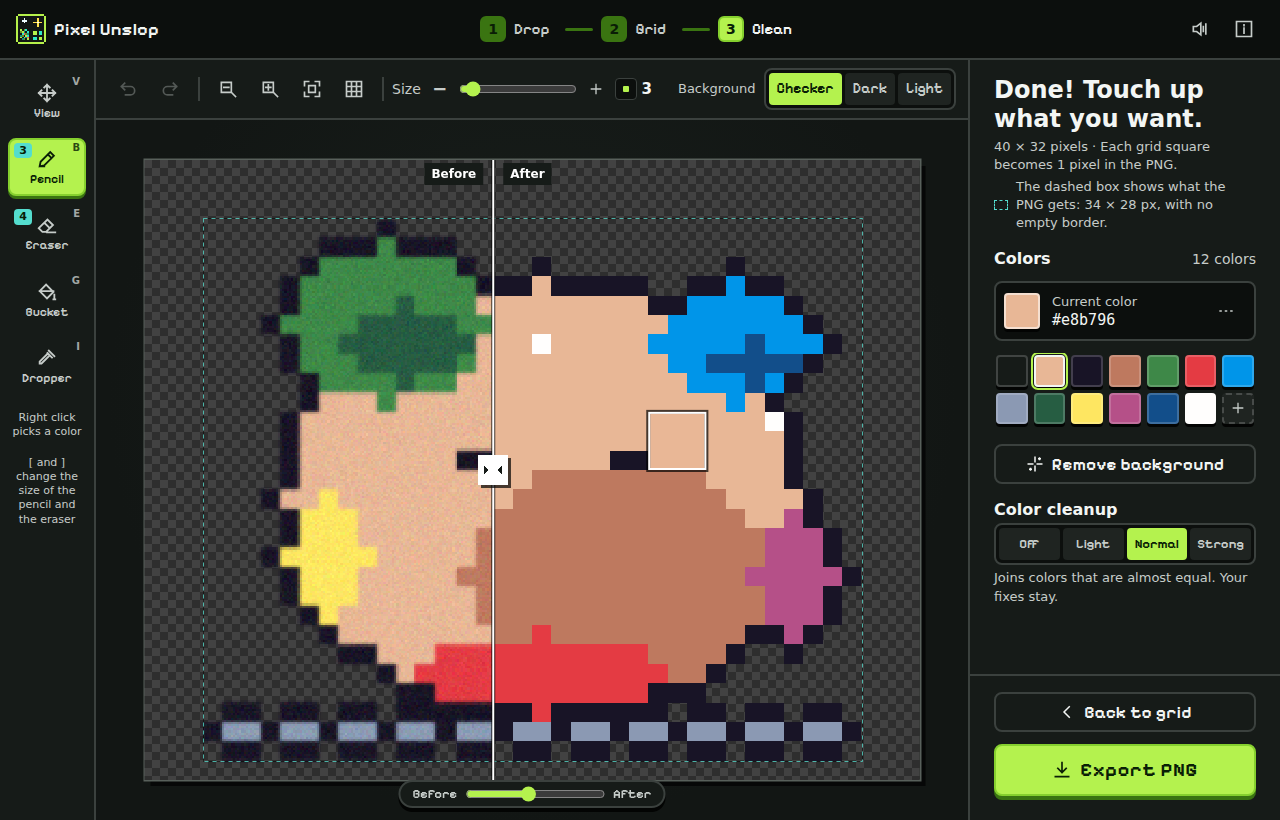
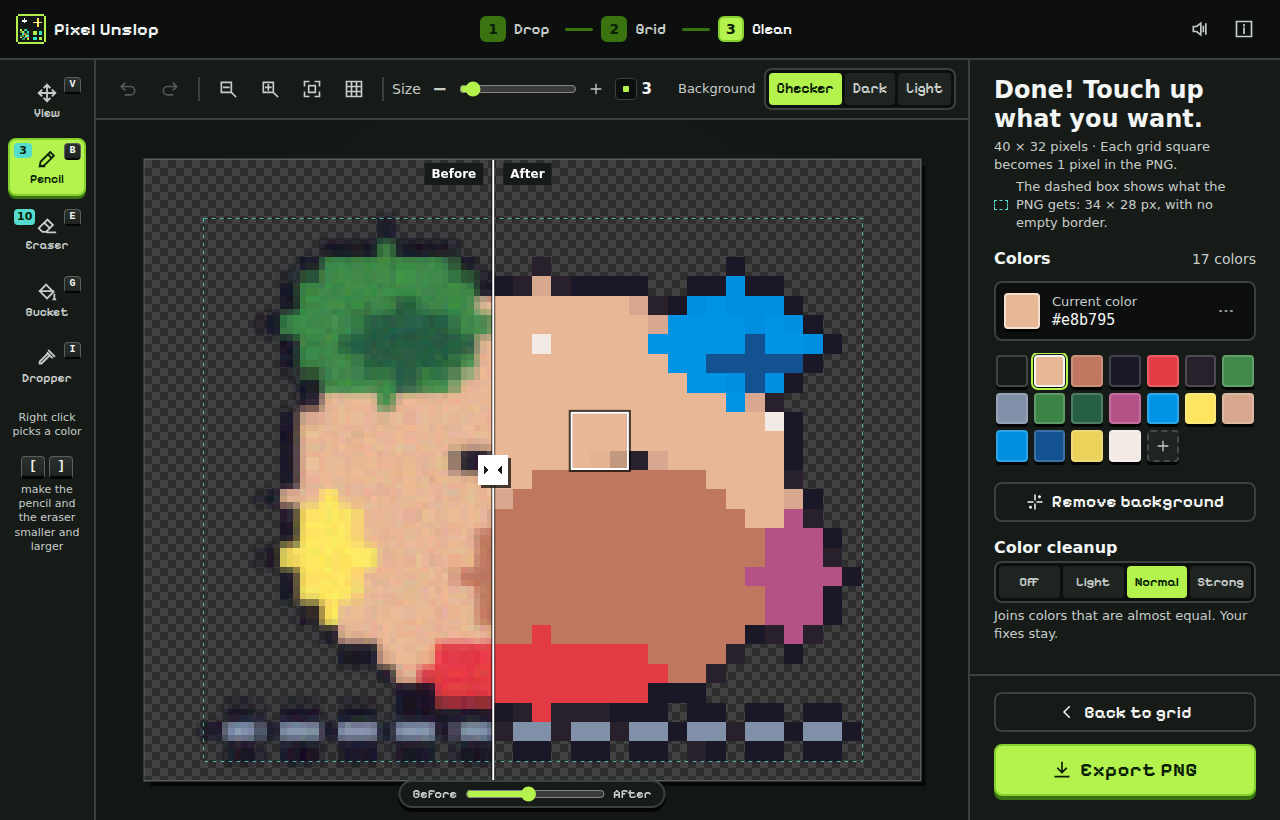
feat: show key hints as keycaps, version 1.2.1
## Description

Show the keys of the visible hints as keycaps, and remove the word between the two bracket keys.

## What

- Add a shared keycap style and the KeyText component. Why: key hints look like real keys in each screen
- Show the bracket keys of the brush size as two keycaps with no word between them. Why: the word "e" looked like the key E of the eraser
- Use keycaps for the tool letters, for Ctrl and for the keys in the line tips. Why: one look for each visible key
- Make the clean screen image of the README again. Why: the image shows the tool rail
- Set the version to 1.2.1. Why: release the change

diff --git a/src/ui/GridScreen.svelte b/src/ui/GridScreen.svelte
@@ -14,6 +14,7 @@
   import { holdRepeat } from './hold-repeat.ts';
   import { revealInPanel } from './reveal.ts';
   import Icon from './Icon.svelte';
+  import KeyText from './KeyText.svelte';
   import ProgressPill from './ProgressPill.svelte';
   import SetGridRail from './SetGridRail.svelte';
   import Stage from './Stage.svelte';
@@ -717,7 +718,7 @@
           <h1 class="grid-title" id="adjust-title">{t('grid.adjustTitle')}</h1>
           <ul class="adjust-tips">
             {#each ADJUST_TIPS as tip (tip.key)}
-              <li class="adjust-tip"><span class="tip-key">{t(tip.key)}</span><span class="tip-text">{t(tip.text)}</span></li>
+              <li class="adjust-tip"><span class="tip-key"><KeyText text={t(tip.key)} /></span> <span class="tip-text"><KeyText text={t(tip.text)} /></span></li>
             {/each}
           </ul>
           <div class="adjust-row">
@@ -858,7 +859,7 @@
               {/if}
             </div>
           </div>
-          <p class="way-move"><span class="tip-key">{t('grid.moveKey')}</span>{t('grid.moveHelp')}</p>
+          <p class="way-move"><span class="tip-key"><KeyText text={t('grid.moveKey')} /></span>{t('grid.moveHelp')}</p>
           <div class="way is-stacked">
             <button type="button" class="btn btn-quiet way-btn" onclick={detect}>
               <Icon name="wand" size={18} />
@@ -1443,19 +1444,10 @@
       line-height: 1.4;
     }
 
-    .adjust-tip .tip-key {
-      margin-right: var(--space-1);
-    }
-
+    /* The action of a tip. Its key names show as keycaps, with the shared look. */
     .tip-key {
-      display: inline-block;
-      padding: 0 var(--space-1);
       color: var(--text);
-      background: var(--surface-3);
-      border: 1px solid var(--line-strong);
-      border-radius: var(--radius-s);
       font-weight: 700;
-      font-size: 0.8125rem;
     }
 
     .tip-text {

diff --git a/src/ui/CleanScreen.svelte b/src/ui/CleanScreen.svelte
@@ -417,14 +417,17 @@
       >
         <Icon name={tool.icon} size={22} />
         <span class="tool-label">{t(tool.label)}</span>
-        <kbd class="tool-key">{tool.key}</kbd>
+        <kbd class="keycap tool-key">{tool.key}</kbd>
         {#if (tool.id === 'pencil' || tool.id === 'eraser') && app.brush[tool.id] > 1}
           <span class="tool-size" title={t('brush.value', { size: app.brush[tool.id] })}>{app.brush[tool.id]}</span>
         {/if}
       </button>
     {/each}
     <p class="rail-hint">{t('clean.rightClickHint')}</p>
-    <p class="rail-hint">{t('brush.railHint')}</p>
+    <p class="rail-hint rail-keys">
+      <span class="keycap-group" role="group" aria-label={t('brush.bracketKeys')}><kbd class="keycap">[</kbd><kbd class="keycap">]</kbd></span>
+      <span>{t('brush.railHint')}</span>
+    </p>
   </nav>
 
   <div class="clean-main">
@@ -615,9 +618,12 @@
     .tool-key {
       position: absolute;
       top: 3px;
-      right: 4px;
-      font: 600 0.625rem/1 var(--font-body);
-      opacity: 0.8;
+      right: 3px;
+      min-width: 1.7em;
+      height: 1.7em;
+      padding: 0 0.25em;
+      border-bottom-width: 2px;
+      font-size: 0.625rem;
     }
 
     /* The brush size of the pencil or the eraser, when it is larger than 1. */
@@ -642,6 +648,17 @@
       font-size: 0.6875rem;
       line-height: 1.3;
       text-align: center;
+    }
+
+    /* The bracket keys on their own line, above what they do. */
+    .rail-keys {
+      display: grid;
+      justify-items: center;
+      gap: var(--space-1);
+
+      & .keycap-group {
+        font-size: 0.875rem;
+      }
     }
 
     .clean-main {

diff --git a/src/app/i18n.ts b/src/app/i18n.ts
@@ -176,7 +176,8 @@ const ptBR = {
   'brush.larger': 'Pincel maior',
   'brush.value': '{size} por {size} pixels',
   'brush.keys': '[ e ] mudam o tamanho',
-  'brush.railHint': '[ e ] mudam o tamanho do lápis e da borracha',
+  'brush.railHint': 'diminuem e aumentam o lápis e a borracha',
+  'brush.bracketKeys': 'colchete esquerdo e colchete direito',
   'clean.undo': 'Desfazer',
   'clean.redo': 'Refazer',
   'clean.backToGrid': 'Voltar à grade',
@@ -566,7 +567,8 @@ const en: Record<TextKey, string> = {
   'brush.larger': 'Larger brush',
   'brush.value': '{size} by {size} pixels',
   'brush.keys': '[ and ] change the size',
-  'brush.railHint': '[ and ] change the size of the pencil and the eraser',
+  'brush.railHint': 'make the pencil and the eraser smaller and larger',
+  'brush.bracketKeys': 'left bracket and right bracket',
   'clean.undo': 'Undo',
   'clean.redo': 'Redo',
   'clean.backToGrid': 'Back to grid',

diff --git a/src/styles/base.css b/src/styles/base.css
@@ -177,6 +177,30 @@
     color: var(--text);
   }
 
+  /* One look for every visible key: a small key with a lighter face and a darker lower edge. Sizes follow the text, in em. */
+  .keycap {
+    display: inline-grid;
+    place-items: center;
+    min-width: 1.9em;
+    height: 1.9em;
+    padding: 0 0.4em;
+    color: var(--text);
+    background: linear-gradient(var(--surface-3), var(--surface-2));
+    border: 1px solid var(--line-strong);
+    border-bottom-width: 3px;
+    border-bottom-color: var(--depth);
+    border-radius: var(--radius-s);
+    font: 700 0.875em/1 var(--font-mono);
+    white-space: nowrap;
+    vertical-align: middle;
+  }
+
+  .keycap-group {
+    display: inline-flex;
+    align-items: center;
+    gap: 0.35em;
+  }
+
   .hint {
     color: var(--text-muted);
     font-size: 0.8125rem;

diff --git a/src/ui/KeyText.svelte b/src/ui/KeyText.svelte
@@ -1,0 +1,13 @@
+<script lang="ts">
+  interface Props {
+    /** A short help text, such as "Alt + drag". The key names in it show as keycaps; the rest stays text. */
+    text: string;
+  }
+
+  let { text }: Props = $props();
+
+  /** A split with a capture group: the odd parts are the key names. */
+  const parts = $derived(text.split(/\b(Ctrl|Alt|Shift|Delete|Enter|Esc|Tab)\b/));
+</script>
+
+{#each parts as part, i (i)}{#if i % 2 === 1}<kbd class="keycap">{part}</kbd>{:else}{part}{/if}{/each}

diff --git a/src/styles/tokens.css b/src/styles/tokens.css
@@ -70,6 +70,7 @@
 
     --font-display: 'Pixelify Sans Variable', 'Pixelify Sans', system-ui, sans-serif;
     --font-body: system-ui, -apple-system, 'Segoe UI', Roboto, 'Helvetica Neue', Arial, sans-serif;
+    --font-mono: ui-monospace, 'Cascadia Mono', Consolas, 'Liberation Mono', monospace;
 
     --radius-s: 4px;
     --radius-m: 8px;

diff --git a/PRIMITIVES.md b/PRIMITIVES.md
@@ -59,7 +59,7 @@
 - **`EditSession`**, `src/app/edit-session.ts`, confirmed
   Keeps the user edits as an overlay over a base sprite, with undo and redo. Contract: `setBase(sprite: Sprite): void`, `clear(): void`, `apply(indices: Int32Array, colors: number | Uint32Array): Int32Array`, `undo(): Int32Array | null`, `redo(): Int32Array | null`, `swapColor(from: number, to: number): Int32Array`, `composed(): Sprite`, getters `canUndo`, `canRedo`, `hasEdits`, `hasBase`; each edit returns the changed indices, and an edit that changes nothing returns an empty array and adds no undo step. `setBase` with the same `cols` and `rows` keeps the overlay and the history, so edits stay after a palette merge; other dimensions reset everything. `composed()` returns the same cached object until the next change, so callers must not mutate it. `swapColor` is one undo step.
   Consumers: 2 importers (`state.svelte.ts`; `image-set.svelte.ts` keeps one session per object); `CleanScreen.svelte` and `ExportDialog.svelte` use it through `app.session`.
-- **`brushBox` / `stampIndices` / `brushOrigin`**, `src/ui/brush.ts`, confirmed, pending
+- **`brushBox` / `stampIndices` / `brushOrigin`**, `src/ui/brush.ts`, confirmed
   The square brush footprint on the tile grid, shared by the stroke and its outline. Contract: `brushOrigin(col: number, row: number, size: number): { col: number; row: number }` (`col` and `row` minus `floor((size - 1) / 2)`), `brushBox(col: number, row: number, size: number, cols: number, rows: number): { col: number; row: number; w: number; h: number } | null` (clipped to the sprite; `null` when no tile is inside), `stampIndices(col: number, row: number, size: number, cols: number, rows: number, seen: Uint8Array): number[]` (the row-major indices of the clipped box that `seen` does not hold yet, which it then marks in `seen`). The tile under the pointer is the center of an odd size and the upper-left of the four center tiles of an even size, so the extra row and column go right and down. A stroke keeps one `seen` for all its stamps, so a tile changes once per stroke. It calls no core function: `CleanScreen.svelte` stamps every tile of `lineTiles` between two pointer samples.
   Consumers: 2 (`CleanScreen.svelte` `brushBox` and `stampIndices`; `clean-scene.ts` `brushBox` for the hover outline and the size flash).
 
@@ -74,10 +74,10 @@
 
 ## app layer
 
-- **`app`**, `src/app/state.svelte.ts`, confirmed, pending
+- **`app`**, `src/app/state.svelte.ts`, confirmed
   The single reactive store of the app, and the home of the workflow rules that join the engine, the edit sessions, the image set, storage, sounds and text. Contract: `app` (instance of the unexported `AppState`) with `engine: CleanEngine`, `set: ImageSet` ([[PRIMITIVES#ImageSet]]), `session: EditSession`, `setExportSelection: (() => PngFile[]) | null`, `stage: StageProbe | null`; reactive fields (`screen: Screen` with `Screen = 'drop' | 'set-grid' | 'set' | 'grid' | 'clean'`, `source`, `fit`, `fitVersion`, `elastic`, `fixedPeriod`, `nudge`, `selection`, `stretched` (the art pixel can be a rectangle), `manualGrid: CellGrid | null`, `profiles`, `result`, `baseVersion`, `editVersion`, `exportedEditVersion`, `tool`, `ink`, `preset`, `previewBg`, `optimizePng`, `editingId: number | null`, `startingSet`, `setCleaned`, `gridRejected`, `exportOpen`, `setExportOpen`, `zoomAvailable`, `zoomPercent`, `zoomDefault`, `zoomShownAt`, `brush: BrushSizes` with `BrushSizes = { pencil: number; eraser: number }` and others); getters `busy`, `unsavedEdits`, `editingObject`, `setUnexported`, `brushLimit` and `setGridPending`; single-image methods `openFiles(files, asSet = false)`, `openBytes(bytes, fileName)`, `fitBox(selection)`, `detectAuto()`, `clearMark()`, `useSuggestedSize(period: { x: number; y: number })`, `setPixelSize(x, y)`, `setElastic(mode)`, `setNudge(x, y)`, `setManualGrid(grid: CellGrid)`, `restoreGrid()` (each `Promise<GridFit | null>` except the first two), `clean()`, `applyPreset(name)`, `goTo(target: Screen)`, `setOptimizePng(on)`, `markExported()`, `startOver()`; set methods `addReferences(files)`, `setGridMode(mode: SetGridMode)`, `setReference(id, on)`, `cleanSet()`, `setReferenceColors(on)`, `setEraseBackground(on)`, `editObject(id: number)`, `openSetGrid(id: number)`, `returnToSet(): Promise<boolean>`, `removeObject(id)`, `markSetExported()`, `startOverSet()`; shared methods `toast(text, kind?)`, `dismissToast(id)`, `confirm(title, body, confirmLabel): Promise<boolean>`, `errorText(error)`, `fail(error)`, `track(work)`, `toggleMute()`, `setPreviewBackground(value)`; brush method `setBrush(tool: BrushTool, size: number): number` with `BrushTool = 'pencil' | 'eraser'`; zoom methods `startZoom(): Promise<void>`, `changeZoom(move: ZoomMove): Promise<void>`, `showZoom()`, `previewZoom(percent: number)`; the file also exports `Screen`, `Tool`, `BrushTool`, `BrushSizes`, `PresetName`, `ToastKind`, `PRESET_NAMES`, `isImageFile`, `prefersReducedMotion` and `installDevHook` (`window.__unslop`, in dev only, with `showZoom(percent)` for the zoom indicator). Zoom rules: `main.ts` awaits `startZoom()` before it mounts the app; on desktop only, the zoom starts at the stored value or at the default of [[PRIMITIVES#snapZoom]] for the work area; `changeZoom` moves it one step, puts the old value back and shows one toast when the webview refuses it, and stores it only on success; `showZoom` and `previewZoom` only show the indicator, and `previewZoom` never applies the zoom. Brush rules: each drawing tool keeps its own size; `brushLimit` is `TUNING.clean.brushMax`, at most the longer side of the result sprite; `setBrush` rounds and clamps the size to `[1, brushLimit]`, stores both sizes as `pencil,eraser` and returns the size in use; [[PRIMITIVES#brushBox]] turns a size into tiles. `setGridPending` is true until `cleanSet()` ran once, after a change of a piece grid, a refit or a sync of the shared size since then, and while a piece of a typed shared size has another pixel size (the private `staleSharedPieces()`, which `syncSharedGrid` also uses). Single-image rules: `GridFit.suggestion` takes effect only through `useSuggestedSize`, which drops the marked box and sets the suggested period as `fixedPeriod`; `clearMark()` drops the marked box, keeps the size as `fixedPeriod` and lets the grid take its automatic position; `clean()` refuses while `gridRejected`, reuses the result and its edits when `fitVersion` did not change, otherwise it clears the session, but never the session of a set object; `gridRejected` is set when the worker rejects a grid that the user placed by hand, and it also blocks the store of a set piece; `applyPreset` only sets a new base, so edits stay, and on the set screen it merges the set again; unsaved edits are `session.hasEdits && editVersion !== exportedEditVersion`, and a new image, a drop of a manual grid or a return from the clean screen to the grid screen asks for confirmation; the code `no-image` sends the app back to the drop screen, or back into the set while a set is active; a replaced source or result has its `ImageBitmap` closed; `baseVersion` changes on clean and merge, and `editVersion` on every edit. Set rules: two or more images, `asSet`, or any image while a set is active go to the set; a new set fits every image with `fit-set` `shared` first and keeps the shared grid only when the worker suggests `'shared'`, else it fits again with `own`; the set-wide grid is `set.grid`, a piece added to a shared set gets `fixed` with that period, and a reference gets `own`; the set opens on the `'set-grid'` screen with its first piece, `openSetGrid(id)` opens one piece there, and `cleanSet()` stores the open piece, syncs the shared grid, merges and rebuilds the set, sets `setCleaned` and goes to `'set'`; `app` itself writes `fit`, `inputs`, `raw`, `own`, `ownStrength` and the session base of an object, then calls `set.touch()`; while a piece is open, `session` is the session of that piece, so callers read `app.session` at use time; the edits of a piece are dropped only when its `cols` or `rows` change, after a confirmation; the own palette merge runs through `CleanEngine.mergeOwn` only for objects whose strength changed; a set refit that changes edited pieces, the removal of an edited piece and leaving an unexported set ask for confirmation.
   Consumers: 19 (`main.ts` `installDevHook`; `App.svelte`, `AboutDialog.svelte`, `CleanScreen.svelte`, `CleanupPresets.svelte`, `ConfirmDialog.svelte`, `DropScreen.svelte`, `ExportDialog.svelte`, `GridAdvanced.svelte`, `GridScreen.svelte`, `ProgressPill.svelte`, `SetExportDialog.svelte`, `SetGridPanel.svelte`, `SetPieceControls.svelte`, `SetPieceList.svelte`, `SetScreen.svelte`, `Stage.svelte`, `Stepper.svelte`, `Toasts.svelte`).
-- **`ImageSet`**, `src/app/image-set.svelte.ts`, confirmed, pending
+- **`ImageSet`**, `src/app/image-set.svelte.ts`, confirmed
   The model of a set of objects with one shared palette, and the single home of its size, layout and export rules. Contract: `class ImageSet` with reactive `objects: SetObject[]`, `selectedId: number | null`, `eraseBackground: boolean`, `version`, `liveVersion`, `exportedVersion`, `placeVersion`, `layout: SetLayout`, `grid: SetGridState` (`{ mode: 'own' | 'shared'; period: { x; y } | null; typed: boolean }`), `detected: { x; y } | null`, `referenceColors: boolean`; getters `active`, `pieces` (the objects that are not references), `hasReferences`, `selected`, `unexported` (`active && version !== exportedVersion`), `moved` (an object has a manual place), `allHidden`; methods `find(id)`, `limitOf(object): number`, `add(inits: readonly SetObjectInit[]): SetObject[]`, `remove(id)`, `clear()`, `select(id: number | null)`, `markExported()`, `setEraseBackground(on: boolean)`, `touch()`, `rebuild(strength: number)`, `setSize(id, size: SetSize)`, `setHeight(id, height)`, `resizeLive(id, height): boolean`, `commit()`, `setHidden(id: number, hidden: boolean)`, `showAll()`, `moveTo(id: number, x: number)`, `placeLive(id: number, x: number)`, `tidy()`, `places(): Array<number | null>`, `hiddenFlags(): boolean[]`, `dims()`, `palette(): Uint32Array`, `exportFiles(): SetExportFile[]` (`{ object; name; sprite }`); `SetObject = { readonly id; readonly name; readonly bytes: ArrayBuffer; reference: boolean; fit: GridFit; inputs: FitInputs; raw: Sprite; own: Sprite; ownStrength; readonly session: EditSession; size: SetSize; prepared: Sprite | null; trim: TileBox | null; height; step; output: Sprite | null; stale; backgroundKept; place: number | null; hidden: boolean }`, `FitInputs = { selection; fixedPeriod; grid: CellGrid | null; nudge; elastic }`, `SetSize = { kind: 'whole'; step: number } | { kind: 'free'; height: number }`; module functions `layoutSet(dims, spacing = setSpacing(dims), places: ReadonlyArray<number | null> = [], hidden: ReadonlyArray<boolean> = []): SetLayout`, `setSpacing`, `snapHeights`, `heightOf`, `sizeForHeight`, `ratioLabel`, `isWholeStep`, `uniqueFileNames`, `opaqueBox(sprite: Sprite): TileBox | null`, `trimOrNull(sprite: Sprite): Sprite | null`, `pixelSizeOf(fit: GridFit): { x; y }`. It calls no `CleanEngine` method and computes no grid, and it has no setter for `fit`, `inputs`, `raw` or `own`: [[PRIMITIVES#app]] writes them, then calls `touch()`. `rebuild(strength)` runs these steps: `unifyPalettes` over the `composed()` sprite of every piece, so edits enter the shared palette; with `referenceColors`, `mapToPalette` to the palette of the references; with `eraseBackground`, the border background erase, which can keep the background of a piece and then sets `backgroundKept`; `trimOrNull` into `prepared` and `opaqueBox` into `trim`; the resample to the size; the layout, and `version` changes. A reference skips the palette, erase and size steps: its output is its raw sprite cropped to its opaque box, at step 1, so it stands on the ground by its visible box; it is never exported. An object whose trim finds no opaque tile has `prepared` and `output` `null`. A whole size keeps its step when the trimmed height changes, and a free size keeps its height. A resize resamples only `prepared` and never touches the session, so edits stay at the native grid of the object. `resizeLive` changes `liveVersion`, not `version`; above `TUNING.set.liveResizeTiles` it marks the object `stale` and keeps the old output until `commit()`. `layoutSet` puts the objects side by side in list order on one ground line, with a placeholder box for an object without output; a manual `place` (the left edge in scene pixels) moves only that object, the others keep their automatic slots, and the content width ends at the right edge of the last visible object. `moveTo` sets a place and lays out again, `placeLive` sets it during a drag without a layout, `tidy()` clears every place, and `moveTo`, `setHidden`, `showAll` and `tidy` change `placeVersion`, not `version`. `place` and `hidden` are for the view only: the export, the palette and the cleanup ignore them, so a hidden object is still exported. `exportFiles` gives each piece with an output, named `<name>-pixel-<cols>x<rows>.png` and made unique with `-2`, `-3` without regard to case.
   Consumers: 9 (`state.svelte.ts` builds the instance; `set-scene.ts`, `SetScreen.svelte`, `SetPieceList.svelte`, `SetPieceControls.svelte`, `SetGridPanel.svelte`, `SetExportDialog.svelte` use its types and functions; `CleanScreen.svelte` `opaqueBox`; `ExportDialog.svelte` `trimOrNull`).
 - **`platform`**, `src/app/platform.ts`, confirmed
@@ -92,7 +92,7 @@
 - **`readStored` / `writeStored`**, `src/app/storage.ts`, confirmed
   The only door to `localStorage`, for conveniences that the app can work without. Contract: `readStored(key: string): string | null`, `writeStored(key: string, value: string): void`; values are plain strings, a blocked read returns `null` and a blocked write does nothing. Every key gets the prefix `pixel-unslop:`, so a change of the prefix drops every stored setting.
   Consumers: 4 (`sfx.ts` key `mute`, `state.svelte.ts` keys `previewBg`, `preset`, `optimizePng` and `brush`, `image-set.svelte.ts` key `setEraseBg`, `zoom.ts` key `uiZoom`).
-- **`TUNING`**, `src/app/tuning.ts`, confirmed, pending
+- **`TUNING`**, `src/app/tuning.ts`, confirmed
   The home of the game-feel constants of the interface; algorithm constants are in [[PRIMITIVES#PARAMS]]. Contract: `TUNING = { stage, zoom, grid, loupe, clean, set, particles, sfx, ui } as const`; `TUNING.set` holds the limits and feel of the set mode (also the move threshold and the overlap opacity of a moved object), `TUNING.clean.brushMax` is the largest brush size, `TUNING.zoom.setMax` is the largest zoom of the set scene, `TUNING.grid` also holds the hold-repeat timing of [[PRIMITIVES#holdRepeat]] and the line edit, detail and nudge values of the grid screen, and `TUNING.ui` holds the interface zoom (`zoom = { min, max, step, default }` in percent, `zoomIndicatorMs`) and `minViewport`, the smallest logical viewport at 100% zoom. Some UI values are still local: the `Burst.svelte` timings and sizes, the `DropScreen.svelte` shake duration, `ALT_PAN_THRESHOLD_PX` in `Stage.svelte`, and CSS durations in `PalettePanel.svelte`, `ExportDialog.svelte`, `CleanScreen.svelte` and `DropScreen.svelte`.
   Consumers: 22 (`engine.ts`, `sfx.ts`, `state.svelte.ts`, `image-set.svelte.ts`, `zoom.ts`, and 17 files in `src/ui`).
 - **`sfx`**, `src/app/sfx.ts`, confirmed
@@ -143,6 +143,9 @@
 - **`Burst`**, `src/ui/Burst.svelte`, confirmed
   A one-shot DOM burst or confetti effect outside the stage. Contract: props `trigger: number` (each new value plays the effect once, `0` shows nothing), `count: number`, `colors: readonly string[]`, `kind?: 'burst' | 'confetti'`. It uses CSS keyframes on spans, not a canvas and not [[PRIMITIVES#ParticleField]]; CSS hides it under `prefers-reduced-motion`; it is absolutely positioned at the center, so the parent must be the positioning context; it has no budget, and the caller sets `count`.
   Consumers: 3 (`DropScreen.svelte`, `ExportDialog.svelte`, `SetExportDialog.svelte`).
+- **`KeyText` / `.keycap`**, `src/ui/KeyText.svelte` (classes in `src/styles/base.css`), confirmed, pending
+  The single look of a visible key, and the text helper that applies it. Contract: the global classes `.keycap` (one key, sized in em from its text, in `--font-mono` of [[PRIMITIVES#tokens.css]]) and `.keycap-group` (a row of keys); `KeyText` with the prop `text: string` renders the text and puts each whole word `Ctrl`, `Alt`, `Shift`, `Delete`, `Enter`, `Esc` or `Tab` in a `<kbd class="keycap">`. Only these English names become keycaps, so a translated text must keep them as written; a letter or a bracket key is not converted, and the screens write `<kbd class="keycap">` for it themselves.
+  Consumers: `KeyText` 1 (`GridScreen.svelte`); `.keycap` and `.keycap-group` 2 (`GridScreen.svelte` through `KeyText`, `CleanScreen.svelte` directly).
 
 ## desktop shell
 
